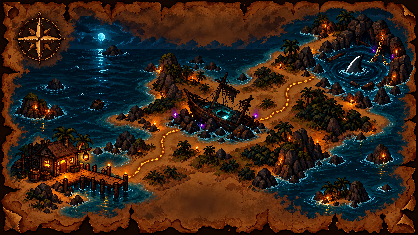
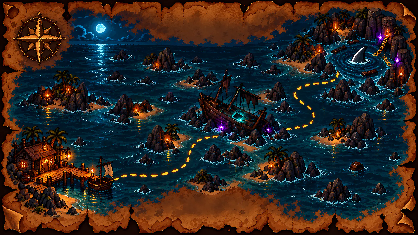
Solo: mapa novo com geografia de arquipelago (rota de barco por cima da agua: cais com barquinho, naufragio encalhado no recife, redemoinho no fim); X's, caminho e nomes realinhados; o pontilhado do desenho agora ganha bolinhas douradas so por onde o jogador ja andou

diff --git a/src/solo/SoloMap.jsx b/src/solo/SoloMap.jsx
@@ -10,15 +10,15 @@ const MAP_SRC = '/solo/pixel/map.png'
 const HERO_SRC = '/solo/pixel/map-hero.png'
 
 // o caminho dourado do desenho (pontos em pixels do mapa) e em qual ponto fica cada fase
-const ROUTE = [[126, 177], [137, 166], [150, 160], [160, 148], [164, 138], [175, 131], [200, 124], [221, 114],
-  [240, 118], [260, 120], [272, 117], [284, 110], [288, 90], [295, 85], [312, 78], [322, 76]]
-const NODE_AT = [0, 7, 15] // fase 1 = o cais da taverna, fase 2 = o convés do naufrágio, fase 3 = a beira do redemoinho
+const ROUTE = [[114, 177], [123, 176], [136, 175], [153, 175], [165, 173], [179, 168], [186, 161], [191, 149], [196, 142], [208, 137],
+  [215, 136], [235, 134], [270, 131], [288, 129], [297, 127], [308, 122], [311, 111], [307, 106], [298, 99], [297, 92],
+  [300, 87], [311, 84], [325, 82], [335, 77], [337, 74]]
+const NODE_AT = [0, 11, 24] // fase 1 = o barco no cais da taverna, fase 2 = o naufrágio no recife, fase 3 = a beira do redemoinho
 const NODES = NODE_AT.map((i) => ROUTE[i])
 // onde fica a plaquinha com o nome de cada fase (a da taverna vai pro cantinho de baixo, longe do botão)
-const LABEL_AT = [[70, 214], [221, 128], [322, 90]]
+const LABEL_AT = [[66, 214], [243, 150], [337, 90]]
 
-// PONTILHADO bem visível por cima do caminho do desenho: bolinhas com contorno escuro, uma a cada 7 pixels
-// (douradas por onde você já passou, laranja adiante), andando devagar
+// PROGRESSO no pontilhado do desenho: bolinhas douradas com contorno escuro, uma a cada 7 pixels, só por onde você já andou
 const SPACING = 7
 const ROUTE_D = (() => { const d = [0]; for (let i = 1; i < ROUTE.length; i++) d.push(d[i - 1] + Math.hypot(ROUTE[i][0] - ROUTE[i - 1][0], ROUTE[i][1] - ROUTE[i - 1][1])); return d })()
 const NODE_D = NODE_AT.map((i) => ROUTE_D[i])
@@ -32,14 +32,13 @@ function pointAt(d) {
   return ROUTE[ROUTE.length - 1]
 }
 function drawTrail(ctx, doneUntil, t) {
-  const total = ROUTE_D[ROUTE_D.length - 1]
+  // o desenho já tem o pontilhado dourado; por cima eu só acendo (em dourado vivo) o pedaço que você já andou
   const shift = (t * 5) % SPACING
-  for (let d = shift; d <= total; d += SPACING) {
+  for (let d = shift; d <= doneUntil; d += SPACING) {
     const [x, y] = pointAt(d)
-    const done = d <= doneUntil
     ctx.fillStyle = '#1f0f04'
     ctx.fillRect(Math.round(x) - 2, Math.round(y) - 2, 4, 4)
-    ctx.fillStyle = done ? '#ffe27a' : '#f0993d'
+    ctx.fillStyle = '#ffe27a'
     ctx.fillRect(Math.round(x) - 1, Math.round(y) - 1, 2, 2)
   }
 }
